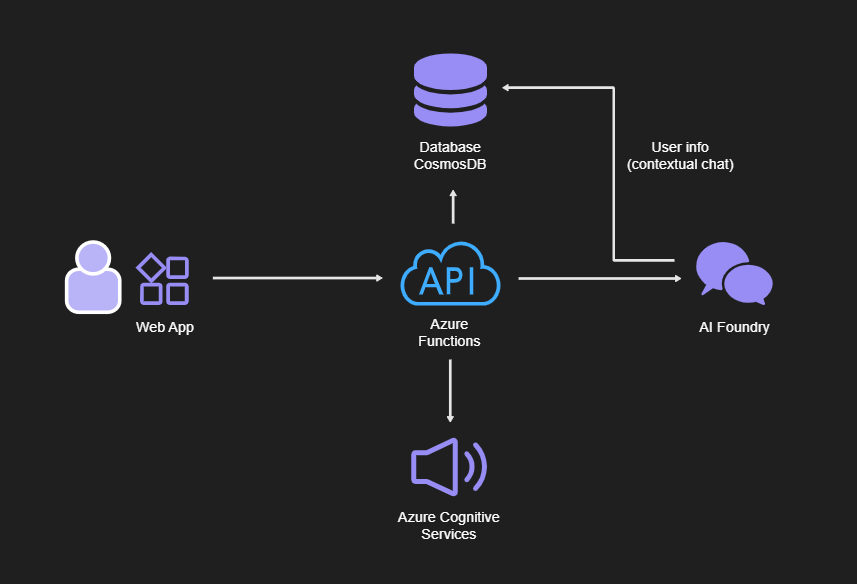
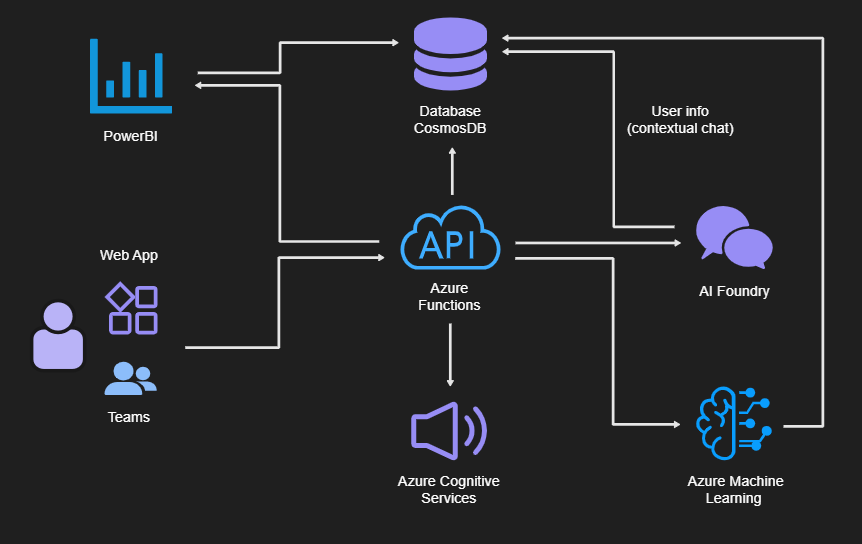
Azure diagram updated

diff --git a/README.md b/README.md
@@ -17,6 +17,34 @@ Aplicación de `productividad` con un enfoque lúdico, diseñada para mejorar la
     - `Ajuste dinámico del horario` en base al rendimiento histórico.
     - `Voice assistant` para poder interactuar con el como si fuera un compañero mas
 
+- Avanochi multicanal (Bot Service + Speech Services)
+    - Interacción por `voz y chat` con Avanochi.  
+    - Integración en `Teams/Slack` como compañero virtual.  
+    - Envío de `recordatorios hablados` y respuestas naturales.  
+
+- Generación de informes narrativos (Azure OpenAI / AI Foundry)
+    - Creación de `resúmenes semanales` en lenguaje natural.  
+    - Explicación de `rendimiento, descansos y hábitos` de forma personalizada.  
+    - Ejemplo: “Esta semana trabajaste un 15% más rápido en tareas creativas, pero descuidaste los descansos de media tarde…”  
+
+- Logros y recompensas (Functions + Cosmos DB)
+    - Sistema de `trofeos y logros` por constancia y hábitos saludables.  
+    - Ejemplo: “7 días hidratado”, “0 horas extra en la semana”.  
+    - Refuerzo de la `motivación y el bienestar` del usuario.  
+
+- Mapas de calor de productividad (Cosmos DB + Power BI)
+    - Visualización de `estadísticas de productividad` en distintas horas del día.  
+    - Identificación de `momentos de máximo rendimiento`.  
+    - Ayuda en la `planificación óptima` de la jornada laboral.  
+
+- Predicciones de sobrecarga (Azure Machine Learning + Functions)
+    - Modelo de IA para `anticipar sobrecargas laborales`.  
+    - Generación de `alertas preventivas` si se prevé trabajar más de 9h.  
+    - Prevención de `estrés y exceso de horas`.  
+
+![alt text](assets/image.png)
+
+## 3. Features
 - Estadísticas de rendimiento
     - `Horas trabajadas` diarias y semanales.
     - `Tareas completadas vs pendientes` por cada jornada.
@@ -27,9 +55,8 @@ Aplicación de `productividad` con un enfoque lúdico, diseñada para mejorar la
     - `Hora de comer`: Avanochi necesita comer. Si no le das de comer, asume que tú tampoco lo has hecho y te recuerda parar para almorzar.
     - `Hidratación`: Avanochi tiene sed periódicamente. Cuando le das agua, entiendes que también debes hidratarte.
 
-![alt text](assets/image.png)
 
-## 3. Caso de uso
+## 4. Caso de uso
 1. El empleado inicia sesión en Avanochi al `comenzar su jornada`.
 2. Si es lunes, se cargan las tareas pendientes de la semana anterior o se generan nuevas.
 3. Durante el día:
@@ -41,7 +68,7 @@ Aplicación de `productividad` con un enfoque lúdico, diseñada para mejorar la
     - Se generan `estadísticas de rendimiento`.
     - Se preparan `recomendaciones para el día siguiente`.
 
-## 4. Aprendizaje continuo
+## 5. Aprendizaje continuo
 El modelo de IA `analiza el historial de trabajo del empleado` y ajusta las recomendaciones con el tiempo, personalizando horarios y estrategias para `optimizar la productividad`.
 
 Las métricas para evaluar la productividad serían las siguientes:
